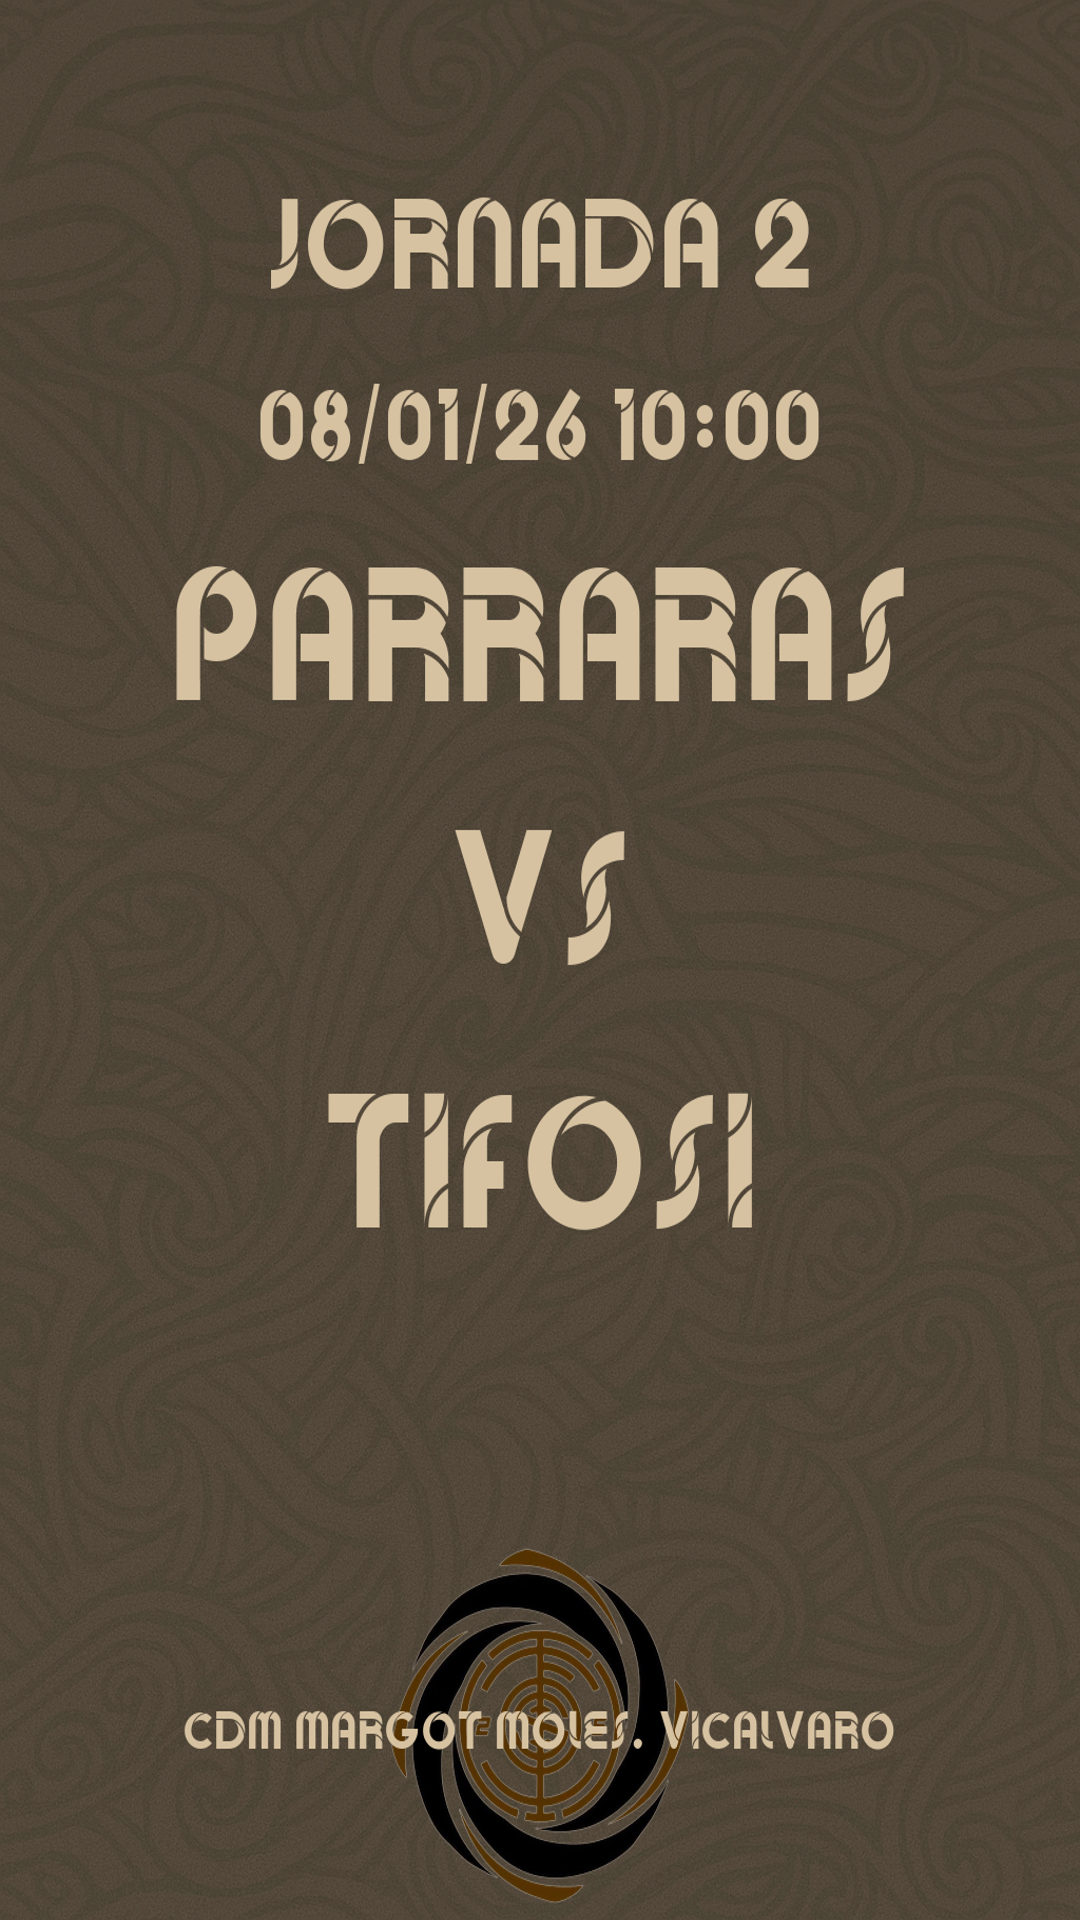
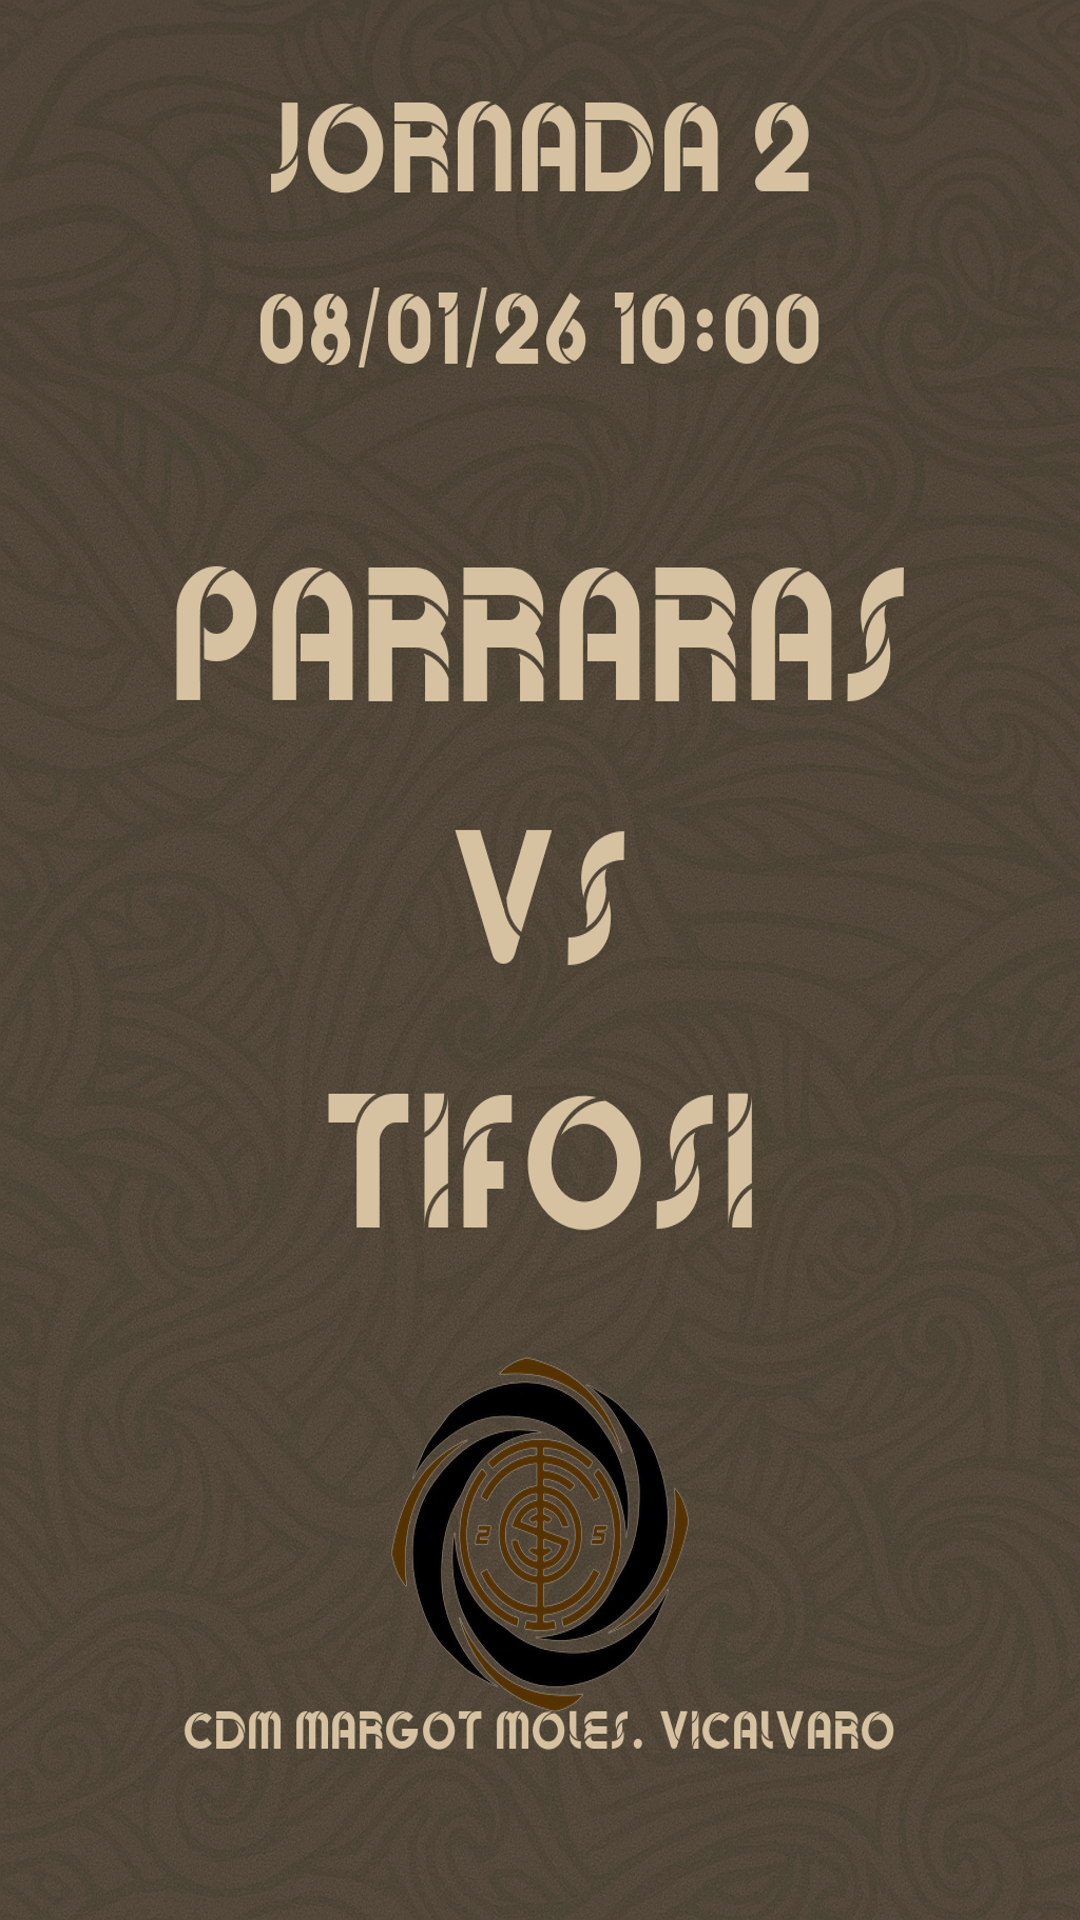
update web

Changed region(s): [[0.2444, 0.0312, 0.7639, 0.25], [0.3667, 0.6875, 0.6417, 1.0]]

diff --git a/image_generator.py b/image_generator.py
@@ -318,10 +318,10 @@ def generar_proximo(data):
     # =========================
     # POSICIONES
     # =========================
-    y_jornada = int(alto * 0.10)
-    y_fecha = int(alto * 0.20)
+    y_jornada = int(alto * 0.05)
+    y_fecha = int(alto * 0.15)
     y_equipos = int(alto * 0.35)
-    y_escudo = int(alto * 0.80)
+    y_escudo = int(alto * 0.70)
     y_ubicacion = int(alto * 0.90)
 
     # =========================
